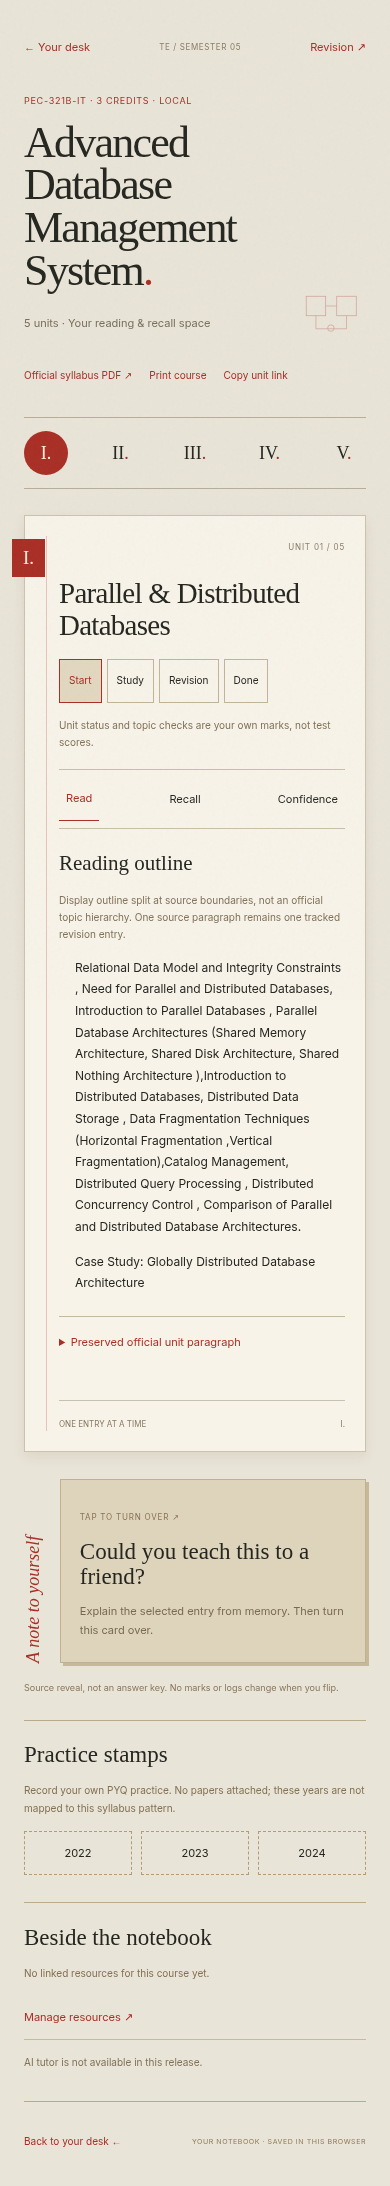
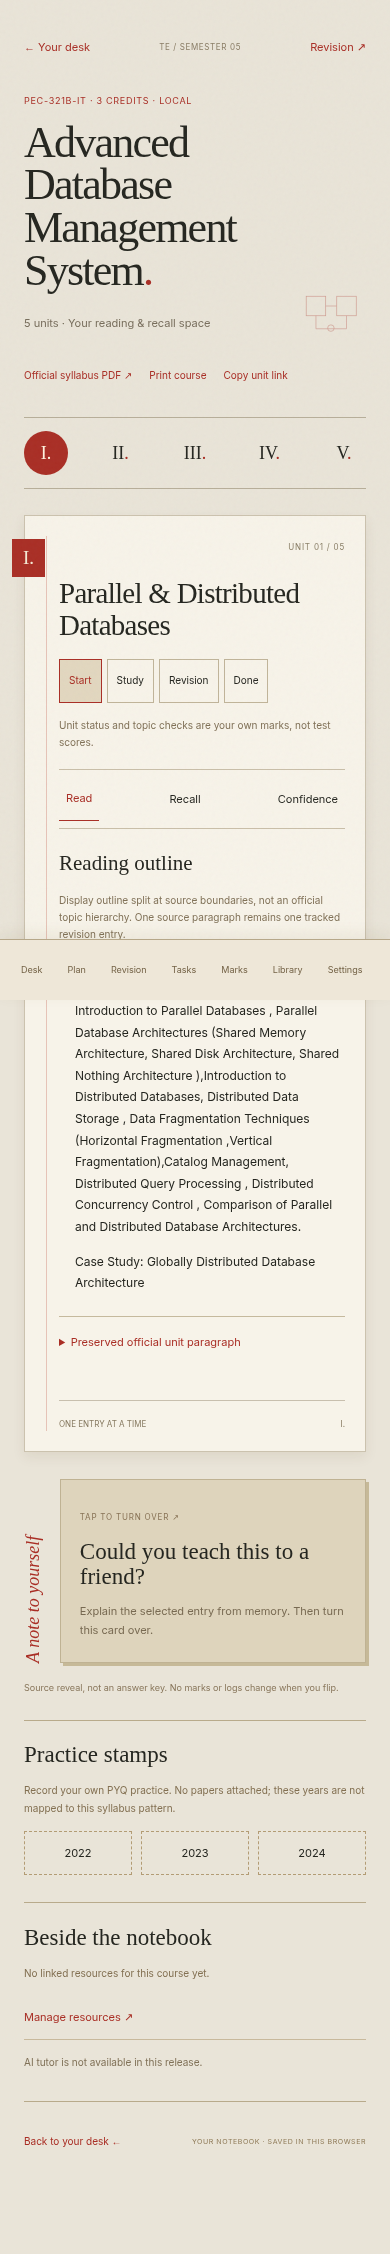
Add PC menubar and persistent mobile course navbar

diff --git a/pages/SubjectDetail.tsx b/pages/SubjectDetail.tsx
@@ -1,4 +1,5 @@
 import '../notebook.css';
+import EditionNav from '../components/EditionNav';
 import React,{useEffect,useState} from 'react';
 import {useParams,useSearchParams,Link} from 'react-router-dom';
 import {CATALOG} from '../lib/catalog';
@@ -27,5 +28,5 @@ export default function SubjectDetail(){
  const checkTopic=(i:number)=>{const k=topicId(unit.id,i);setStudy(old=>({...old,topics:{...old.topics,[k]:{...old.topics[k],status:old.topics[k]?.status==='done'?'not-started':'done'}}}));};
  const log=()=>setStudy(old=>recordRevision(old,tid,old.topics[tid]?.confidence||'low'));
  const print=()=>{document.body.classList.add('printing-notebook');window.print();document.body.classList.remove('printing-notebook');};
- return <div className="notebook-page"><ResourceViewerModal isOpen={!!viewResource} onClose={()=>setViewResource(null)} resource={viewResource}/><main className="notebook-layout"><header className="notebook-top"><Link to="/">← Your desk</Link><span>{subject.year} / {subject.semester?`SEMESTER ${String(subject.semester).padStart(2,'0')}`:'FOUNDATION'}</span><Link to="/study">Revision ↗</Link></header><section className="notebook-masthead"><div><p>{subject.code} · {subject.credits} CREDITS · LOCAL</p><h1>{subject.name}<b>.</b></h1><span>{subject.units.length} units · Your reading & recall space</span></div><svg viewBox="0 0 100 80" aria-hidden="true" fill="none" stroke="currentColor"><rect x="8" y="15" width="30" height="30"/><rect x="55" y="15" width="30" height="30"/><path d="M23 45v20h47V45M38 30h17"/><circle cx="46" cy="64" r="5"/></svg></section><div className="notebook-source"><a href={subject.source} target="_blank" rel="noopener noreferrer">Official syllabus PDF ↗</a><button onClick={print}>Print course</button><button onClick={()=>{const u=new URL(window.location.href);u.hash=`/subject/${encodeURIComponent(subject.id)}?unit=${encodeURIComponent(unit.id)}`;if(!navigator.clipboard){setCopied('Copy unavailable. Bookmark this URL.');return;}navigator.clipboard.writeText(u.href).then(()=>setCopied('Copied')).catch(()=>setCopied('Copy failed. Bookmark this URL.'));}}>Copy unit link</button><span role="status">{copied}</span></div><nav aria-label="Jump to unit" className="notebook-unit-tabs">{subject.units.map(u=><button key={u.id} aria-label={`Unit ${u.unit_number}`} aria-pressed={unit.id===u.id} onClick={()=>setParams({unit:u.id})}>{roman(u.unit_number)}<span>.</span></button>)}</nav><div className="notebook-workspace"><article className="notebook-leaf"><span className="notebook-folio">{roman(unit.unit_number)}.</span><p className="notebook-page-label">UNIT {String(unit.unit_number).padStart(2,'0')} / {String(subject.units.length).padStart(2,'0')}</p><h2>{unit.title}</h2><div className="notebook-status" aria-label="Unit progress">{[{value:UnitStatus.NOT_STARTED,label:'Start'},{value:UnitStatus.IN_PROGRESS,label:'Study'},{value:UnitStatus.REVISION,label:'Revision'},{value:UnitStatus.MASTERED,label:'Done'}].map(x=><button key={x.value} aria-label={`${x.label}: ${unit.title}`} aria-pressed={p.status===x.value} onClick={()=>updateStatus(x.value)}>{x.label}</button>)}</div><p className="notebook-honesty">Unit status and topic checks are your own marks, not test scores.</p><nav className="notebook-modes" aria-label="Notebook mode">{['Read','Recall','Confidence'].map(x=><button key={x} aria-pressed={mode===x} onClick={()=>setMode(x)}>{x}</button>)}</nav>{mode==='Read'?<section className="notebook-reading"><h3>Reading outline</h3>{raw?<><p className="notebook-honesty">Display outline split at source boundaries, not an official topic hierarchy. One source paragraph remains one tracked revision entry.</p><ul>{outline.map((t:string,i:number)=><li key={i}>{t}</li>)}</ul><details><summary>Preserved official unit paragraph</summary><p className="notebook-original">{raw}</p></details></>:<div>{unit.topics.map((t,i)=><div className="notebook-topic" key={i}><button aria-label={`Mark topic ${i+1} done`} aria-pressed={study.topics[topicId(unit.id,i)]?.status==='done'} onClick={()=>checkTopic(i)}>{study.topics[topicId(unit.id,i)]?.status==='done'?'✓':''}</button><p>{t}</p></div>)}</div>}</section>:<section className="notebook-practice"><label>Practice entry<select value={recallIndex} onChange={e=>{setRecallIndex(Number(e.target.value));setFlipped(false);}}>{unit.topics.map((_,i)=><option key={i} value={i}>Entry {i+1} of {unit.topics.length}</option>)}</select></label><h3>{mode==='Recall'?'Try without looking.':'How did recall feel?'}</h3><p>{mode==='Recall'?'Explain this entry in your own words. Reveal the source when you are ready. No generated answer or automatic score.':'Choose confidence after your own recall, then log only a revision you actually did. Low returns in 1 day, medium in 3, high in 7. This queue is not a prediction of memory.'}</p><p className="notebook-practice-topic">{topic}</p><div className="notebook-confidence">{['low','medium','high'].map(v=><button key={v} aria-pressed={(state.confidence||'low')===v} onClick={()=>confidence(v as any)}>{v}</button>)}</div><label>Last-revised date<input type="date" value={state.lastRevised||''} onChange={e=>{const day=e.target.value;if(!day||validDay(day))setStudy(old=>({...old,topics:{...old.topics,[tid]:{...old.topics[tid],lastRevised:day||undefined}}}));}}/></label><p className="notebook-honesty">{state.lastRevised?`Last: ${state.lastRevised} · Next: ${nextRevision(state.lastRevised,state.confidence||'low')}`:'Not revised yet. Confidence defaults to low until you choose.'}</p><button className="notebook-log" onClick={log}>Log revision today</button></section>}<div className="notebook-leaf-bottom"><span>{p.status===UnitStatus.MASTERED?'MARKED DONE BY YOU':'ONE ENTRY AT A TIME'}</span><span>{roman(unit.unit_number)}.</span></div></article><aside className="notebook-margin"><section className={`notebook-recall ${flipped?'revealed':''}`}><span className="notebook-side-label">A note to yourself</span><button aria-label="Flip recall card" aria-pressed={flipped} onClick={()=>setFlipped(!flipped)}><span>TAP TO TURN OVER ↗</span><h3>{flipped?'Check against the source.':'Could you teach this to a friend?'}</h3><p>{flipped?topic:'Explain the selected entry from memory. Then turn this card over.'}</p></button></section><p className="notebook-recall-hint">Source reveal, not an answer key. No marks or logs change when you flip.</p><section className="notebook-pyq"><h3>Practice stamps</h3><p>Record your own PYQ practice. No papers attached; these years are not mapped to this syllabus pattern.</p><div>{['2022','2023','2024'].map(y=><button key={y} aria-label={`PYQ ${y}`} aria-pressed={p.pyqsCompleted.includes(y)} onClick={()=>togglePyq(y)}>{y}{p.pyqsCompleted.includes(y)?' ✓':''}</button>)}</div></section><section className="notebook-resources"><h3>Beside the notebook</h3>{resources.length?resources.map(r=><button key={r.id} onClick={()=>setViewResource(r)}><span>{r.title}</span><small>{r.category} · {r.author} ↗</small></button>):<p>No linked resources for this course yet.</p>}<Link to="/resources">Manage resources ↗</Link></section><p className="notebook-honesty">AI tutor is not available in this release.</p></aside></div><section className="notebook-print-only"><h1>{subject.name}</h1>{subject.units.map(u=><article key={u.id}><h2>Unit {u.unit_number}: {u.title}</h2><p>{(u as any).sourceText||u.topics.join('\n')}</p></article>)}</section><footer className="notebook-footer"><Link to="/">Back to your desk ←</Link><span>YOUR NOTEBOOK · SAVED IN THIS BROWSER</span></footer></main></div>;
+ return <div className="notebook-page"><EditionNav/><ResourceViewerModal isOpen={!!viewResource} onClose={()=>setViewResource(null)} resource={viewResource}/><main className="notebook-layout"><header className="notebook-top"><Link to="/">← Your desk</Link><span>{subject.year} / {subject.semester?`SEMESTER ${String(subject.semester).padStart(2,'0')}`:'FOUNDATION'}</span><Link to="/study">Revision ↗</Link></header><section className="notebook-masthead"><div><p>{subject.code} · {subject.credits} CREDITS · LOCAL</p><h1>{subject.name}<b>.</b></h1><span>{subject.units.length} units · Your reading & recall space</span></div><svg viewBox="0 0 100 80" aria-hidden="true" fill="none" stroke="currentColor"><rect x="8" y="15" width="30" height="30"/><rect x="55" y="15" width="30" height="30"/><path d="M23 45v20h47V45M38 30h17"/><circle cx="46" cy="64" r="5"/></svg></section><div className="notebook-source"><a href={subject.source} target="_blank" rel="noopener noreferrer">Official syllabus PDF ↗</a><button onClick={print}>Print course</button><button onClick={()=>{const u=new URL(window.location.href);u.hash=`/subject/${encodeURIComponent(subject.id)}?unit=${encodeURIComponent(unit.id)}`;if(!navigator.clipboard){setCopied('Copy unavailable. Bookmark this URL.');return;}navigator.clipboard.writeText(u.href).then(()=>setCopied('Copied')).catch(()=>setCopied('Copy failed. Bookmark this URL.'));}}>Copy unit link</button><span role="status">{copied}</span></div><nav aria-label="Jump to unit" className="notebook-unit-tabs">{subject.units.map(u=><button key={u.id} aria-label={`Unit ${u.unit_number}`} aria-pressed={unit.id===u.id} onClick={()=>setParams({unit:u.id})}>{roman(u.unit_number)}<span>.</span></button>)}</nav><div className="notebook-workspace"><article className="notebook-leaf"><span className="notebook-folio">{roman(unit.unit_number)}.</span><p className="notebook-page-label">UNIT {String(unit.unit_number).padStart(2,'0')} / {String(subject.units.length).padStart(2,'0')}</p><h2>{unit.title}</h2><div className="notebook-status" aria-label="Unit progress">{[{value:UnitStatus.NOT_STARTED,label:'Start'},{value:UnitStatus.IN_PROGRESS,label:'Study'},{value:UnitStatus.REVISION,label:'Revision'},{value:UnitStatus.MASTERED,label:'Done'}].map(x=><button key={x.value} aria-label={`${x.label}: ${unit.title}`} aria-pressed={p.status===x.value} onClick={()=>updateStatus(x.value)}>{x.label}</button>)}</div><p className="notebook-honesty">Unit status and topic checks are your own marks, not test scores.</p><nav className="notebook-modes" aria-label="Notebook mode">{['Read','Recall','Confidence'].map(x=><button key={x} aria-pressed={mode===x} onClick={()=>setMode(x)}>{x}</button>)}</nav>{mode==='Read'?<section className="notebook-reading"><h3>Reading outline</h3>{raw?<><p className="notebook-honesty">Display outline split at source boundaries, not an official topic hierarchy. One source paragraph remains one tracked revision entry.</p><ul>{outline.map((t:string,i:number)=><li key={i}>{t}</li>)}</ul><details><summary>Preserved official unit paragraph</summary><p className="notebook-original">{raw}</p></details></>:<div>{unit.topics.map((t,i)=><div className="notebook-topic" key={i}><button aria-label={`Mark topic ${i+1} done`} aria-pressed={study.topics[topicId(unit.id,i)]?.status==='done'} onClick={()=>checkTopic(i)}>{study.topics[topicId(unit.id,i)]?.status==='done'?'✓':''}</button><p>{t}</p></div>)}</div>}</section>:<section className="notebook-practice"><label>Practice entry<select value={recallIndex} onChange={e=>{setRecallIndex(Number(e.target.value));setFlipped(false);}}>{unit.topics.map((_,i)=><option key={i} value={i}>Entry {i+1} of {unit.topics.length}</option>)}</select></label><h3>{mode==='Recall'?'Try without looking.':'How did recall feel?'}</h3><p>{mode==='Recall'?'Explain this entry in your own words. Reveal the source when you are ready. No generated answer or automatic score.':'Choose confidence after your own recall, then log only a revision you actually did. Low returns in 1 day, medium in 3, high in 7. This queue is not a prediction of memory.'}</p><p className="notebook-practice-topic">{topic}</p><div className="notebook-confidence">{['low','medium','high'].map(v=><button key={v} aria-pressed={(state.confidence||'low')===v} onClick={()=>confidence(v as any)}>{v}</button>)}</div><label>Last-revised date<input type="date" value={state.lastRevised||''} onChange={e=>{const day=e.target.value;if(!day||validDay(day))setStudy(old=>({...old,topics:{...old.topics,[tid]:{...old.topics[tid],lastRevised:day||undefined}}}));}}/></label><p className="notebook-honesty">{state.lastRevised?`Last: ${state.lastRevised} · Next: ${nextRevision(state.lastRevised,state.confidence||'low')}`:'Not revised yet. Confidence defaults to low until you choose.'}</p><button className="notebook-log" onClick={log}>Log revision today</button></section>}<div className="notebook-leaf-bottom"><span>{p.status===UnitStatus.MASTERED?'MARKED DONE BY YOU':'ONE ENTRY AT A TIME'}</span><span>{roman(unit.unit_number)}.</span></div></article><aside className="notebook-margin"><section className={`notebook-recall ${flipped?'revealed':''}`}><span className="notebook-side-label">A note to yourself</span><button aria-label="Flip recall card" aria-pressed={flipped} onClick={()=>setFlipped(!flipped)}><span>TAP TO TURN OVER ↗</span><h3>{flipped?'Check against the source.':'Could you teach this to a friend?'}</h3><p>{flipped?topic:'Explain the selected entry from memory. Then turn this card over.'}</p></button></section><p className="notebook-recall-hint">Source reveal, not an answer key. No marks or logs change when you flip.</p><section className="notebook-pyq"><h3>Practice stamps</h3><p>Record your own PYQ practice. No papers attached; these years are not mapped to this syllabus pattern.</p><div>{['2022','2023','2024'].map(y=><button key={y} aria-label={`PYQ ${y}`} aria-pressed={p.pyqsCompleted.includes(y)} onClick={()=>togglePyq(y)}>{y}{p.pyqsCompleted.includes(y)?' ✓':''}</button>)}</div></section><section className="notebook-resources"><h3>Beside the notebook</h3>{resources.length?resources.map(r=><button key={r.id} onClick={()=>setViewResource(r)}><span>{r.title}</span><small>{r.category} · {r.author} ↗</small></button>):<p>No linked resources for this course yet.</p>}<Link to="/resources">Manage resources ↗</Link></section><p className="notebook-honesty">AI tutor is not available in this release.</p></aside></div><section className="notebook-print-only"><h1>{subject.name}</h1>{subject.units.map(u=><article key={u.id}><h2>Unit {u.unit_number}: {u.title}</h2><p>{(u as any).sourceText||u.topics.join('\n')}</p></article>)}</section><footer className="notebook-footer"><Link to="/">Back to your desk ←</Link><span>YOUR NOTEBOOK · SAVED IN THIS BROWSER</span></footer></main></div>;
 }

diff --git a/edition-nav.css b/edition-nav.css
@@ -1,0 +1,4 @@
+.edition-nav{max-width:1320px;margin:auto;display:flex;justify-content:space-between;align-items:center;gap:30px;padding:22px 35px;border-bottom:1px solid #bcad90;color:#302c23;background:#e9e4d8}.edition-nav .edition-nav-brand{font:italic 32px Georgia;color:#a92e25;display:flex;align-items:center;gap:18px}.edition-nav-brand>span{font:9px Arial;letter-spacing:.12em;color:#675b45}.edition-nav-brand small{display:block;font-size:7px;letter-spacing:.1em;margin-top:5px;color:#928061}.edition-nav>div{display:flex;align-items:center;gap:23px}.edition-nav>div>a{font-size:10px;color:#746347;min-height:44px;display:flex;align-items:center;gap:4px;white-space:nowrap}.edition-nav>div>a>span{color:transparent}.edition-nav>div>a[aria-current]{color:#a92e25}.edition-nav>div>a[aria-current]>span{color:#a92e25}.edition-nav a:focus-visible{outline:2px solid #a92e25;outline-offset:3px}
+@media(max-width:899px){.edition-nav{padding:0;border:0;max-width:none}.edition-nav .edition-nav-brand{display:none}.edition-nav>div{position:fixed;z-index:50;left:0;right:0;bottom:0;padding:8px 14px max(8px,env(safe-area-inset-bottom));gap:0;justify-content:space-between;border-top:1px solid #b6a789;background:#eee7d8;box-shadow:0 -5px 14px #6a542314;overflow-x:auto}.edition-nav>div>a{padding:0 7px;font-size:9px;min-height:44px;justify-content:center}.edition-nav.setup-nav>div>a{flex:1;font-size:11px}.map-page,.notebook-page,.desk-page,.library-page{padding-bottom:68px}}
+@media(max-width:350px){.edition-nav>div{padding:6px 6px}.edition-nav>div>a{font-size:8px;padding:0 4px}}
+@media print{.edition-nav{display:none!important}}

diff --git a/components/EditionNav.tsx b/components/EditionNav.tsx
@@ -1,0 +1,2 @@
+import React from 'react';import {Link,useLocation} from 'react-router-dom';import '../edition-nav.css';
+export default function EditionNav({setup=false}:{setup?:boolean}){const location=useLocation();const items=setup?[['Start','/landing'],['Library','/directory'],['Setup','/onboarding']]:[['Desk','/'],['Plan','/planner'],['Revision','/study'],['Tasks','/tasks'],['Marks','/calculator'],['Library','/directory'],['Settings','/settings']];return <nav className={`edition-nav ${setup?'setup-nav':''}`} aria-label={setup?'Setup navigation':'Main navigation'}><Link className="edition-nav-brand" to={setup?'/landing':'/'}>p.<span>PREPTRACKER<small>THE STUDY EDITION</small></span></Link><div>{items.map(([name,to])=><Link key={to} to={to} aria-current={location.pathname===to?'page':undefined}>{name}<span>·</span></Link>)}</div></nav>}
